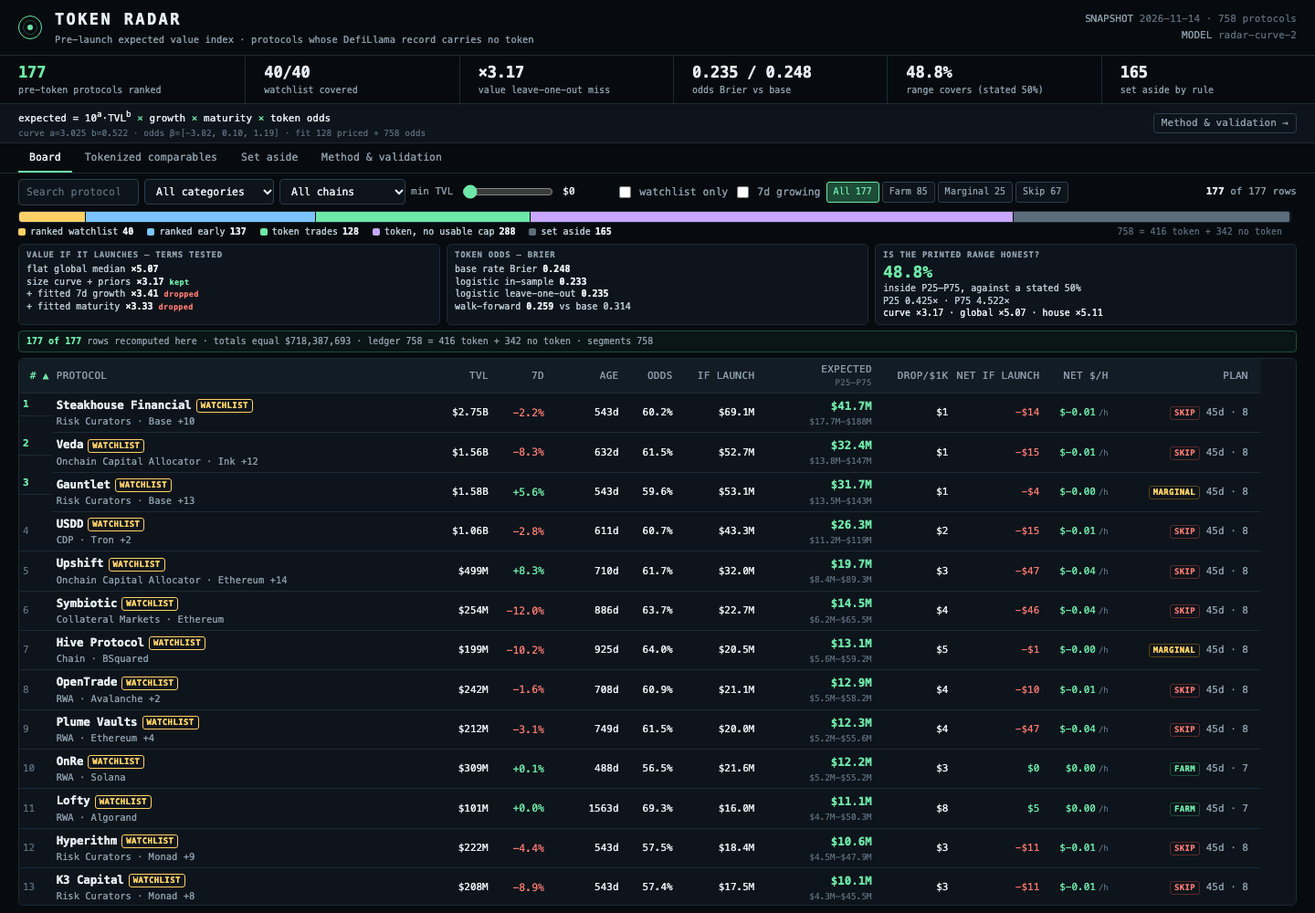
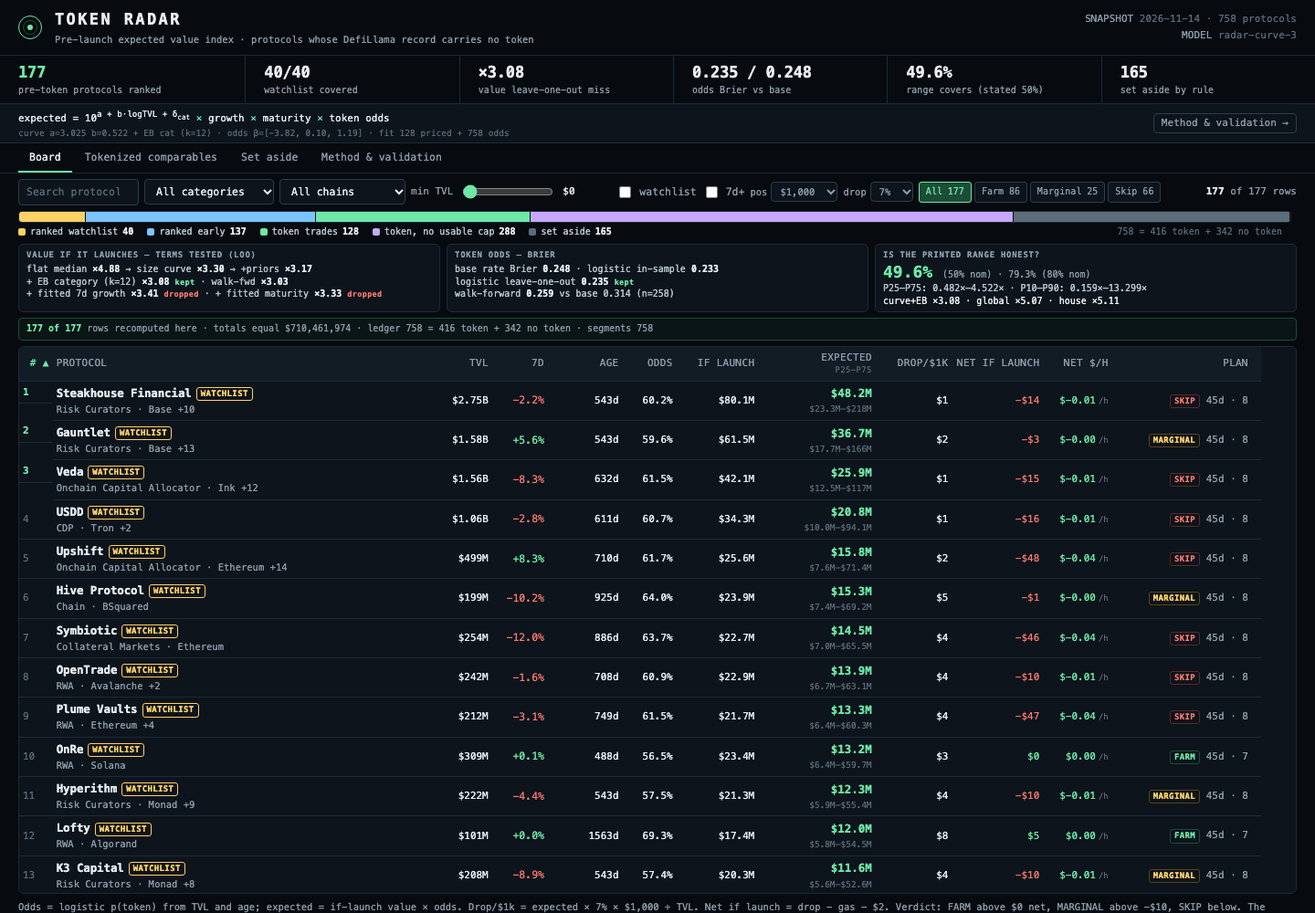
Add EB category shrinkage (k=12), P10-P90 bands, and interactive position/drop controls

diff --git a/dashboard/app.js b/dashboard/app.js
@@ -15,29 +15,31 @@ const one = (n) => `$${n.toFixed(2)}`;
 const cmp = (a, b) => (a < b ? -1 : a > b ? 1 : 0);
 const age = (r) => `${r.age_days}d${r.age_assumed ? '<span class="badge assume">assumed</span>' : ''}`;
 const clamp = (n, lo, hi) => Math.min(hi, Math.max(lo, n));
-const verdict = (r) => r.net_if_launch_usd > 0 ? ['FARM', 'farm'] : r.net_if_launch_usd > -10 ? ['MARGINAL', 'marg'] : ['SKIP', 'skip'];
+const verdictNet = (net) => net > 0 ? ['FARM', 'farm'] : net > -10 ? ['MARGINAL', 'marg'] : ['SKIP', 'skip'];
+const verdict = (r) => verdictNet(r.net_if_launch_usd);
 
 const view = $('#view');
 if (!R) { view.innerHTML = '<p class="empty">No radar loaded: run <b>node main.ts</b> to write data.js.</p>'; throw new Error('data.js missing'); }
 const v = R.validation;
 const baseBrier = R.odds.base_rate * (1 - R.odds.base_rate);
 
-/** Recompute one row from snapshot inputs, constants, curve and odds coefficients. */
-function rec(r) {
+/** Recompute one row from snapshot inputs, constants, curve, EB category adj and odds. */
+function rec(r, pos = MODEL.deposit_usd, share = MODEL.drop_share) {
   const g = Math.round((1 + (clamp(r.change_7d ?? 0, MODEL.growth_lo, MODEL.growth_hi) / 100) * MODEL.growth_weight) * 1e4) / 1e4;
   const a = r.age_assumed ? MODEL.age_assumed_days : r.age_days;
   const mat = Math.round((MODEL.maturity_base + (Math.min(a, MODEL.maturity_days) / MODEL.maturity_days) * MODEL.maturity_span) * 1e4) / 1e4;
-  const base = 10 ** R.curve.a * Math.pow(r.tvl_usd, R.curve.b);
+  const adj = (R.curve.cat_adj && R.curve.cat_adj[r.category ?? '(none)']) ?? 0;
+  const base = 10 ** (R.curve.a + R.curve.b * Math.log10(r.tvl_usd) + adj);
   const ifLaunch = Math.max(1, Math.round(base * g * mat));
   const z = R.odds.beta[0] + R.odds.beta[1] * Math.log10(r.tvl_usd) + R.odds.beta[2] * Math.log10(1 + Math.min(a, MODEL.odds_max_age));
   const odds = 1 / (1 + Math.exp(-z));
   const implied = Math.max(1, Math.round(ifLaunch * odds));
   const low = Math.max(1, Math.round(implied * R.curve.band.p25));
   const high = Math.max(1, Math.round(implied * R.curve.band.p75));
-  const drop = Math.round((implied * MODEL.drop_share * MODEL.deposit_usd) / r.tvl_usd);
+  const drop = Math.round((implied * share * pos) / r.tvl_usd);
   const net = drop - r.gas_total_usd - MODEL.fee_usd;
   const hours = r.hold_days * 24 + (r.family === 'rwa' ? 8 : r.family === 'staking' ? 4 : 1);
-  return { base, ifLaunch, odds: Math.round(odds * 1e4) / 1e4, implied, low, high, drop, net: Math.round(net * 100) / 100, netHour: Math.round((net / hours) * 1e4) / 1e4 };
+  return { base, adj, ifLaunch, odds: Math.round(odds * 1e4) / 1e4, implied, low, high, drop, net: Math.round(net * 100) / 100, netHour: Math.round((net / hours) * 1e4) / 1e4 };
 }
 const close = (a, b, tol) => Math.abs(a - b) <= tol;
 function integrity() {
@@ -62,9 +64,9 @@ $('#kpis').innerHTML = [
   [`${v.band.coverage}%`, 'range covers (stated 50%)'],
   [R.counts.set_aside, 'set aside by rule'],
 ].map(([b, s]) => `<div class="kpi"><b>${b}</b><span>${s}</span></div>`).join('');
-$('#methodbar').innerHTML = `<div class="mtext"><div class="f">expected = 10<sup>a</sup>·TVL<sup>b</sup> <i>×</i> growth <i>×</i> maturity <i>×</i> token odds</div><div class="f2">curve a=${v.curve.a.toFixed(3)} b=${v.curve.b.toFixed(3)} · odds β=[${R.odds.beta.map((z) => z.toFixed(2)).join(', ')}] · fit ${R.counts.tokenized} priced + ${R.counts.protocols} odds</div></div><button class="go" id="goMethod">Method &amp; validation →</button>`;
+$('#methodbar').innerHTML = `<div class="mtext"><div class="f">expected = 10<sup>a + b·logTVL + δ<sub>cat</sub></sup> <i>×</i> growth <i>×</i> maturity <i>×</i> token odds</div><div class="f2">curve a=${v.curve.a.toFixed(3)} b=${v.curve.b.toFixed(3)} + EB cat (k=${MODEL.cat_shrink_k}) · odds β=[${R.odds.beta.map((z) => z.toFixed(2)).join(', ')}] · fit ${R.counts.tokenized} priced + ${R.counts.protocols} odds</div></div><button class="go" id="goMethod">Method &amp; validation →</button>`;
 
-const state = { q: '', cat: '', chain: '', minTvl: 0, watch: false, grow: false, verdict: 'all', key: 'rank', dir: 1 };
+const state = { q: '', cat: '', chain: '', minTvl: 0, watch: false, grow: false, verdict: 'all', key: 'rank', dir: 1, pos: MODEL.deposit_usd, share: MODEL.drop_share };
 const cats = [...new Set(R.rows.map((r) => r.category ?? '(none)'))].sort(cmp);
 const chainCount = new Map();
 for (const r of R.rows) for (const c of r.chains) chainCount.set(c, (chainCount.get(c) ?? 0) + 1);
@@ -98,21 +100,18 @@ function evidence() {
   const kept = '<span class="keep">kept</span>';
   const drop = '<span class="drop">dropped</span>';
   return `<div class="evidence">
-    <div class="ecard"><h4>Value if it launches — terms tested</h4>
-      <div class="eline">flat global median <b>${x2(t.flat)}</b></div>
-      <div class="eline">size curve + priors <b>${x2(t.curve)}</b> ${kept}</div>
-      <div class="eline">+ fitted 7d growth <b>${x2(t.growth)}</b> ${drop}</div>
-      <div class="eline">+ fitted maturity <b>${x2(t.maturity)}</b> ${drop}</div></div>
+    <div class="ecard"><h4>Value if it launches — terms tested (LOO)</h4>
+      <div class="eline">flat median <b>${x2(t.flat)}</b> → size curve <b>${x2(t.size)}</b> → +priors <b>${x2(t.priors)}</b></div>
+      <div class="eline">+ EB category (k=${MODEL.cat_shrink_k}) <b>${x2(t.curve)}</b> ${kept} · walk-fwd <b>${x2(v.walk.median_miss)}</b></div>
+      <div class="eline">+ fitted 7d growth <b>${x2(t.growth)}</b> ${drop} · + fitted maturity <b>${x2(t.maturity)}</b> ${drop}</div></div>
     <div class="ecard"><h4>Token odds — Brier</h4>
-      <div class="eline">base rate Brier <b>${baseBrier.toFixed(3)}</b></div>
-      <div class="eline">logistic in-sample <b>${R.odds.brier_in.toFixed(3)}</b></div>
-      <div class="eline">logistic leave-one-out <b>${R.odds.brier_loo.toFixed(3)}</b></div>
-      <div class="eline">walk-forward <b>${R.odds.walk.brier.toFixed(3)}</b> vs base ${R.odds.walk.base_brier.toFixed(3)}</div></div>
+      <div class="eline">base rate Brier <b>${baseBrier.toFixed(3)}</b> · logistic in-sample <b>${R.odds.brier_in.toFixed(3)}</b></div>
+      <div class="eline">logistic leave-one-out <b>${R.odds.brier_loo.toFixed(3)}</b> ${kept}</div>
+      <div class="eline">walk-forward <b>${R.odds.walk.brier.toFixed(3)}</b> vs base ${R.odds.walk.base_brier.toFixed(3)} (n=${R.odds.walk.test_n})</div></div>
     <div class="ecard"><h4>Is the printed range honest?</h4>
-      <div class="bigstat">${v.band.coverage}%</div>
-      <div class="eline">inside P25–P75, against a stated 50%</div>
-      <div class="eline">P25 ${R.curve.band.p25.toFixed(3)}× · P75 ${R.curve.band.p75.toFixed(3)}×</div>
-      <div class="eline hi">curve ${x2(v.curve.median_miss)} · global ${x2(v.global.median_miss)} · house ${x2(v.house.median_miss)}</div></div>
+      <div class="bigstat">${v.band.coverage}% <span class="substat">(50% nom) · ${v.band.coverage80}% (80% nom)</span></div>
+      <div class="eline">P25–P75: ${R.curve.band.p25.toFixed(3)}×–${R.curve.band.p75.toFixed(3)}× · P10–P90: ${R.curve.band.p10.toFixed(3)}×–${R.curve.band.p90.toFixed(3)}×</div>
+      <div class="eline hi">curve+EB ${x2(v.curve.median_miss)} · global ${x2(v.global.median_miss)} · house ${x2(v.house.median_miss)}</div></div>
   </div>`;
 }
 function chartSvg(W = 620, H = 280) {
@@ -140,8 +139,10 @@ function renderBoard() {
     <select id="cat" aria-label="Category"><option value="">All categories</option>${cats.map((c) => `<option value="${esc(c)}"${c === state.cat ? ' selected' : ''}>${esc(c)}</option>`).join('')}</select>
     <select id="chain" aria-label="Chain"><option value="">All chains</option>${chains.map((c) => `<option value="${esc(c)}"${c === state.chain ? ' selected' : ''}>${esc(c)}</option>`).join('')}</select>
     <label class="slider">min TVL <input type="range" id="minTvl" min="0" max="${Math.ceil(maxTvl / 1e7) * 10}" step="5" value="${state.minTvl / 1e6}" aria-label="Minimum TVL in millions"><output id="minOut">${usd(state.minTvl)}</output></label>
-    <label class="check"><input type="checkbox" id="watch"${state.watch ? ' checked' : ''}> watchlist only</label>
-    <label class="check"><input type="checkbox" id="grow"${state.grow ? ' checked' : ''}> 7d growing</label>
+    <label class="check"><input type="checkbox" id="watch"${state.watch ? ' checked' : ''}> watchlist</label>
+    <label class="check"><input type="checkbox" id="grow"${state.grow ? ' checked' : ''}> 7d+</label>
+    <label class="miniinp">pos <select id="posSel" aria-label="Position size">${[500, 1000, 5000, 10000].map((v2) => `<option value="${v2}"${v2 === state.pos ? ' selected' : ''}>${full(v2)}</option>`).join('')}</select></label>
+    <label class="miniinp">drop <select id="shareSel" aria-label="Airdrop share">${[0.05, 0.07, 0.1].map((v2) => `<option value="${v2}"${v2 === state.share ? ' selected' : ''}>${Math.round(v2 * 100)}%</option>`).join('')}</select></label>
     <span class="vchips" id="vchips"></span>
     <span class="count" id="count"></span>
   </div>
@@ -157,6 +158,8 @@ function renderBoard() {
   $('#minTvl').addEventListener('input', (e) => { state.minTvl = Number(e.target.value) * 1e6; $('#minOut').textContent = usd(state.minTvl); run(); });
   $('#watch').addEventListener('change', (e) => { state.watch = e.target.checked; run(); });
   $('#grow').addEventListener('change', (e) => { state.grow = e.target.checked; run(); });
+  $('#posSel').addEventListener('change', (e) => { state.pos = Number(e.target.value); run(); });
+  $('#shareSel').addEventListener('change', (e) => { state.share = Number(e.target.value); run(); });
   view.querySelectorAll('th[data-k]').forEach((th) => th.addEventListener('click', () => { const k = th.dataset.k; state.dir = state.key === k ? -state.dir : (k === 'rank' || k === 'name' ? 1 : -1); state.key = k; run(); }));
   fill();
   const I = integrity();
@@ -165,11 +168,19 @@ function renderBoard() {
 
 function fill() {
   const pre = preVerdict();
-  const counts = { all: pre.length, farm: 0, marg: 0, skip: 0 };
-  for (const r of pre) counts[verdict(r)[1]]++;
+  const liveRow = (r) => (state.pos === MODEL.deposit_usd && state.share === MODEL.drop_share) ? r : (() => { const c = rec(r, state.pos, state.share); return { ...r, drop_per_1k_usd: c.drop, net_if_launch_usd: c.net, net_per_hour_usd: c.netHour }; })();
+  const preLive = pre.map(liveRow);
+  const counts = { all: preLive.length, farm: 0, marg: 0, skip: 0 };
+  for (const r of preLive) counts[verdict(r)[1]]++;
   $('#vchips').innerHTML = [['all', 'All'], ['farm', 'Farm'], ['marg', 'Marginal'], ['skip', 'Skip']].map(([k, l]) => `<button class="vchip${state.verdict === k ? ' on' : ''}" data-v="${k}">${l} ${counts[k]}</button>`).join('');
   view.querySelectorAll('[data-v]').forEach((b) => b.addEventListener('click', () => { state.verdict = b.dataset.v; fill(); }));
-  const rows = filtered();
+  const rows = preLive.filter((r) => state.verdict === 'all' || verdict(r)[1] === state.verdict).sort((a, b) => {
+    const va = a[state.key], vb = b[state.key];
+    if (va === vb) return a.rank - b.rank;
+    if (va === null) return 1;
+    if (vb === null) return -1;
+    return (typeof va === 'string' ? cmp(va, vb) : va - vb) * state.dir;
+  });
   const bits = [];
   if (state.cat) bits.push(state.cat);
   if (state.chain) bits.push(state.chain);
@@ -177,9 +188,15 @@ function fill() {
   if (state.watch) bits.push('watchlist only');
   if (state.grow) bits.push('7d growing');
   if (state.verdict !== 'all') bits.push(`${state.verdict} verdict`);
+  if (state.pos !== MODEL.deposit_usd || state.share !== MODEL.drop_share) bits.push(`${full(state.pos)} @ ${Math.round(state.share * 100)}%`);
   if (state.q) bits.push(`“${state.q}”`);
   $('#count').innerHTML = `<b>${rows.length}</b> of ${R.rows.length} rows${bits.length ? ` &middot; <span class="flt">${esc(bits.join(' · '))}</span>` : ''}`;
-  view.querySelectorAll('th[data-k]').forEach((th) => { const on = th.dataset.k === state.key; th.classList.toggle('sorted', on); th.textContent = COLS.find((c) => c[0] === th.dataset.k)[1] + (on ? (state.dir > 0 ? ' ▲' : ' ▼') : ''); });
+  view.querySelectorAll('th[data-k]').forEach((th) => {
+    const on = th.dataset.k === state.key;
+    th.classList.toggle('sorted', on);
+    const baseLabel = th.dataset.k === 'drop_per_1k_usd' ? `Drop/${usd(state.pos)}` : COLS.find((c) => c[0] === th.dataset.k)[1];
+    th.textContent = baseLabel + (on ? (state.dir > 0 ? ' ▲' : ' ▼') : '');
+  });
   $('#rows').innerHTML = rows.length ? rows.map((r) => {
     const badge = `${r.watchlist ? '<span class="badge wl">WATCHLIST</span>' : '<span class="badge early">BELOW FLOOR</span>'}${r.missing.length ? `<span class="badge assume">${r.missing.length} missing</span>` : ''}`;
     const [vl, vc] = verdict(r);
@@ -223,16 +240,16 @@ function openDetail(slug) {
     <button class="dclose" id="dclose">Close ✕</button></div>
   <div class="dhero"><div class="dvalue"><div class="big">${full(r.implied_value_usd)} <span class="heroSub">expected</span></div>
     <div class="eq">${full(r.if_launch_usd)} if it launches × ${(r.odds * 100).toFixed(1)}% odds = ${full(r.implied_value_usd)} expected</div>
-    <div class="note">if-launch = 10^${v.curve.a.toFixed(3)} · TVL^${v.curve.b.toFixed(3)} × ${r.growth_mult.toFixed(3)} growth × ${r.maturity.toFixed(3)} maturity. Interval = expected × held-out ${r.ratio_lo.toFixed(3)}× / ${r.ratio_hi.toFixed(3)}×.<br>Recomputed here: <b>${full(c.implied)}</b>; the row says <b>${full(r.implied_value_usd)}</b> — ${c.implied === r.implied_value_usd ? 'match' : 'MISMATCH'}.</div></div>
-    <div class="dband"><div class="lab">P25–P75 expected-value interval</div>
+    <div class="note">if-launch = 10^(${v.curve.a.toFixed(3)} + ${v.curve.b.toFixed(3)}·logTVL ${(c.adj >= 0 ? '+' : '−')} ${Math.abs(c.adj).toFixed(3)} EB cat) × ${r.growth_mult.toFixed(3)} growth × ${r.maturity.toFixed(3)} maturity. Interval = expected × held-out ${r.ratio_lo.toFixed(3)}× / ${r.ratio_hi.toFixed(3)}×.<br>Recomputed here: <b>${full(c.implied)}</b>; the row says <b>${full(r.implied_value_usd)}</b> — ${c.implied === r.implied_value_usd ? 'match' : 'MISMATCH'}.</div></div>
+    <div class="dband"><div class="lab">P25–P75 (${v.band.coverage}% cov) &amp; P10–P90 (${v.band.coverage80}% cov) interval</div>
       <div class="nums"><span>P25 <b>${usd(r.low_usd)}</b></span><span>expected <b>${usd(r.implied_value_usd)}</b></span><span>P75 <b>${usd(r.high_usd)}</b></span></div>${bandMarkup(r)}
-      <div class="nums" style="margin-top:6px"><span class="mut">${r.ratio_lo.toFixed(3)}×</span><span class="mut">1.000×</span><span class="mut">${r.ratio_hi.toFixed(3)}×</span></div></div></div>
+      <div class="nums" style="margin-top:6px"><span class="mut">P10 ${usd(Math.max(1, Math.round(r.implied_value_usd * R.curve.band.p10)))}</span><span class="mut">${r.ratio_lo.toFixed(3)}×–${r.ratio_hi.toFixed(3)}×</span><span class="mut">P90 ${usd(Math.max(1, Math.round(r.implied_value_usd * R.curve.band.p90)))}</span></div></div></div>
   <div class="dcols"><div>
     <div class="card"><h3>Model inputs from the snapshot</h3><div class="rows">
       <div class="row"><div class="l"><span class="k">TVL</span><span class="e">tvl_usd</span></div><span class="v">${full(r.tvl_usd)}</span></div>
       <div class="row"><div class="l"><span class="k">7d TVL change</span><span class="e">${r.change_7d === null ? 'not reported' : `${r.change_7d.toFixed(2)}%, counted ${r.growth_counted}%`}</span></div><span class="v">${pct(r.change_7d)} → ×${r.growth_mult.toFixed(3)}</span></div>
       <div class="row"><div class="l"><span class="k">No-token age</span><span class="e">${esc(r.age_basis)}</span></div><span class="v">${r.age_days}d</span></div>
-      <div class="row"><div class="l"><span class="k">Curve base</span><span class="e">10^a × TVL^b</span></div><span class="v">${full(r.base_usd)}</span></div>
+      <div class="row"><div class="l"><span class="k">Curve + EB cat</span><span class="e">10^(a + b·logTVL + ${(c.adj >= 0 ? '+' : '') + c.adj.toFixed(4)})</span></div><span class="v">${full(r.base_usd)}</span></div>
       <div class="row"><div class="l"><span class="k">If it launches</span><span class="e">base × growth × maturity</span></div><span class="v">${full(r.if_launch_usd)}</span></div>
       <div class="row"><div class="l"><span class="k">Expected value</span><span class="e">if launches × token odds</span></div><span class="v acc">${full(r.implied_value_usd)}</span></div>
       <div class="row"><div class="l"><span class="k">Drop / $1k</span><span class="e">expected × ${Math.round(MODEL.drop_share * 100)}% × $1,000 ÷ TVL</span></div><span class="v">${full(r.drop_per_1k_usd)}</span></div>
@@ -282,7 +299,14 @@ function renderAside() {
 function renderMethod() {
   const c = R.counts, t = R.terms, o = R.odds;
   const status = (n, cut) => n <= cut ? '<span class="keep">kept</span>' : '<span class="drop">dropped</span>';
-  const termRows = [['Flat global median multiple', t.flat, status(t.flat, 4)], ['+ size curve and stated priors', t.curve, status(t.curve, 4)], ['+ fitted 7-day growth', t.growth, status(t.growth, t.curve)], ['+ fitted maturity', t.maturity, status(t.maturity, t.curve)]].map(([n, m, s]) => `<tr><td>${n}</td><td class="num">${x2(m)}</td><td>${s}</td></tr>`).join('');
+  const termRows = [
+    ['Flat global median multiple', t.flat, '<span class="drop">baseline</span>'],
+    ['Log-log size curve (TVL)', t.size, '<span class="keep">kept</span>'],
+    ['+ stated growth & maturity priors', t.priors, '<span class="keep">kept</span>'],
+    [`+ EB category shrinkage (k=${MODEL.cat_shrink_k})`, t.curve, '<span class="keep">kept</span>'],
+    ['+ fitted 7-day growth', t.growth, status(t.growth, t.curve)],
+    ['+ fitted maturity', t.maturity, status(t.maturity, t.curve)],
+  ].map(([n, m, s]) => `<tr><td>${n}</td><td class="num">${x2(m)}</td><td>${s}</td></tr>`).join('');
   const catRows = R.categories.filter((k) => k.n >= 5).sort((a, b) => b.n - a.n || cmp(a.name, b.name)).map((k) => `<tr><td>${esc(k.name)}</td><td class="num">${k.n}</td><td class="num">${x(k.median)}</td><td class="num">${k.rows}</td></tr>`).join('');
   const outRows = v.outliers.map((q) => `<tr><td>${esc(q.name)}</td><td class="sub">${esc(q.category ?? 'none')}</td><td class="num">${q.ratio}</td><td class="num">${usd(q.tvl_usd)}</td></tr>`).join('');
   const modelRow = (name, s) => `<tr><td>${name}</td><td class="num">${x2(s.median_miss)}</td><td class="num">${s.within_2x}%</td><td class="num">${s.within_3x}%</td><td class="num">${s.spearman}</td></tr>`;

diff --git a/lib/radar.ts b/lib/radar.ts
@@ -81,8 +81,8 @@ export function logFit(ps) {
   return { a: my - b * mx, b, n };
 }
 
-/** Fit the comps curve; the seven ratios outside [0.005, 50] are flagged and
- * excluded from the held-out band and scoring sample (121 of 128). */
+/** Fit the comps curve + Empirical-Bayes category residual shrinkage (k=12).
+ * Seven ratios outside [0.005, 50] are flagged and excluded from scoring (121 of 128). */
 export function fitCurve(protocols, asOf) {
   const live = protocols.filter(isTokenized);
   const inWindow = (p) => {
@@ -94,19 +94,47 @@ export function fitCurve(protocols, asOf) {
     slug: p.slug, name: p.name, category: p.category, tvl_usd: p.tvl_usd,
     mcap_usd: p.mcap_usd, ratio: round(p.mcap_usd / p.tvl_usd, 6),
   }));
+  const fitCatAdj = (train, f) => {
+    const byCat = new Map();
+    for (const q of train) {
+      const c = q.category ?? '(none)';
+      const res = Math.log10(q.mcap_usd) - (f.a + f.b * Math.log10(q.tvl_usd));
+      if (!byCat.has(c)) byCat.set(c, []);
+      byCat.get(c).push(res);
+    }
+    const adj = {};
+    for (const [c, rs] of byCat) {
+      const mean = rs.reduce((s, v) => s + v, 0) / (rs.length + MODEL.cat_shrink_k);
+      adj[c] = round(mean, 5);
+    }
+    return adj;
+  };
   const fit = logFit(live);
   const filtered = logFit(clean);
-  const predict = (tvl) => 10 ** fit.a * tvl ** fit.b;
+  const catAdj = fitCatAdj(live, fit);
+  const predict = (tvl, category) => {
+    const adj = catAdj[category ?? '(none)'] ?? 0;
+    return 10 ** (fit.a + fit.b * Math.log10(tvl) + adj);
+  };
   const ratios = [];
   const curvePreds = [];
   for (const p of clean) {
-    const f = logFit(live.filter((x) => x !== p));
-    const pred = 10 ** f.a * p.tvl_usd ** f.b * growthFactor(p) * maturityFactor(p, asOf);
+    const tr = live.filter((x) => x !== p);
+    const f = logFit(tr);
+    const cAdj = fitCatAdj(tr, f);
+    const adj = cAdj[p.category ?? '(none)'] ?? 0;
+    const pred = 10 ** (f.a + f.b * Math.log10(p.tvl_usd) + adj) * growthFactor(p) * maturityFactor(p, asOf);
     ratios.push(p.mcap_usd / pred);
     curvePreds.push(pred);
   }
-  const band = { n: ratios.length, p25: round(quantile(ratios, 0.25)), p75: round(quantile(ratios, 0.75)) };
-  return { live, clean, outliers, fit, filtered, predict, ratios, curvePreds, band };
+  const band = {
+    n: ratios.length,
+    p10: round(quantile(ratios, 0.1)),
+    p25: round(quantile(ratios, 0.25)),
+    p75: round(quantile(ratios, 0.75)),
+    p90: round(quantile(ratios, 0.9)),
+  };
+  return { live, clean, outliers, fit, filtered, catAdj, fitCatAdj, predict, ratios, curvePreds, band };
 }
 
 /** Days between the snapshot day and the day DefiLlama began tracking the protocol. */
@@ -148,13 +176,14 @@ export function score(p, asOf, curve, odds) {
   const assumed = actualAge === null;
   const age = assumed ? MODEL.age_assumed_days : actualAge;
   const maturity = maturityFactor(p, asOf);
-  const base = curve.predict(p.tvl_usd);
+  const base = curve.predict(p.tvl_usd, p.category);
+  const catAdj = curve.catAdj[p.category ?? '(none)'] ?? 0;
   const ifLaunch = Math.max(MODEL.value_floor_usd, Math.round(base * growth * maturity));
   const implied = Math.max(MODEL.value_floor_usd, Math.round(ifLaunch * odds));
   const low = Math.max(MODEL.value_floor_usd, Math.round(implied * curve.band.p25));
   const high = Math.max(MODEL.value_floor_usd, Math.round(implied * curve.band.p75));
   const missing = [];
-  if (p.category === null) missing.push('category: not recorded; the curve does not use it');
+  if (p.category === null) missing.push('category: not recorded; EB category adjustment held at 0');
   if (p.change_7d === null) missing.push('change_7d: not reported, the growth factor is held at 1.000');
   if (p.listed_at === null) missing.push(`listed_at: not reported, age is assumed to be ${MODEL.age_assumed_days} days (maturity ${maturity.toFixed(3)})`);
   return {
@@ -164,6 +193,7 @@ export function score(p, asOf, curve, odds) {
     age_days: age,
     age_assumed: assumed,
     age_basis: assumed ? `assumed ${MODEL.age_assumed_days} days: listed_at is not reported` : `${age} days since DefiLlama began tracking it`,
+    cat_adj: catAdj,
     base_usd: Math.round(base),
     odds: round(odds, 4),
     if_launch_usd: ifLaunch,
@@ -446,16 +476,23 @@ function olsMulti(X, y) {
   return solve3(A, rhs);
 }
 
-/** Cumulative held-out term tests: flat, curve+priors, fitted growth, fitted maturity. */
+/** Cumulative held-out term tests: flat, size curve, +priors, +EB category, +fitted growth/maturity. */
 export function termsTest(protocols, curve, asOf) {
   const live = curve.live;
   const clean = curve.clean;
   const flat = [];
-  for (const p of live) {
-    const m = quantile(live.filter((x) => x !== p).map((x) => x.mcap_usd / x.tvl_usd), 0.5);
+  const curveOnly = [];
+  const curvePriors = [];
+  for (const p of clean) {
+    const tr = live.filter((x) => x !== p);
+    const m = quantile(tr.map((x) => x.mcap_usd / x.tvl_usd), 0.5);
     flat.push(Math.abs(Math.log10((p.tvl_usd * m) / p.mcap_usd)));
+    const f = logFit(tr);
+    const base = 10 ** f.a * p.tvl_usd ** f.b;
+    curveOnly.push(Math.abs(Math.log10(base / p.mcap_usd)));
+    curvePriors.push(Math.abs(Math.log10((base * growthFactor(p) * maturityFactor(p, asOf)) / p.mcap_usd)));
   }
-  const curveErr = curve.ratios.map((r) => Math.abs(Math.log10(r)));
+  const ebErr = curve.ratios.map((r) => Math.abs(Math.log10(r)));
   const data = (term) => live.map((p) => [1, Math.log10(p.tvl_usd), term(p)]).map((x, i) => ({ x, y: Math.log10(live[i].mcap_usd), p: live[i] }));
   const fitTerm = (term) => {
     const rows = data(term);
@@ -472,7 +509,9 @@ export function termsTest(protocols, curve, asOf) {
   const age = (p) => maturityFactor(p, asOf);
   return {
     flat: round(10 ** quantile(flat, 0.5), 3),
-    curve: round(10 ** quantile(curveErr, 0.5), 3),
+    size: round(10 ** quantile(curveOnly, 0.5), 3),
+    priors: round(10 ** quantile(curvePriors, 0.5), 3),
+    curve: round(10 ** quantile(ebErr, 0.5), 3),
     growth: fitTerm(g),
     maturity: fitTerm(age),
     n: clean.length,
@@ -499,13 +538,15 @@ export function validate(protocols, curve, asOf) {
   const actuals = clean.map((p) => p.mcap_usd);
   const band = curve.band;
   const bandHits = curve.ratios.filter((r) => r >= band.p25 && r <= band.p75).length;
+  const band80Hits = curve.ratios.filter((r) => r >= band.p10 && r <= band.p90).length;
 
   const dated = clean.filter((p) => p.listed_at).slice().sort((a, b) => (a.listed_at < b.listed_at ? -1 : a.listed_at > b.listed_at ? 1 : a.slug < b.slug ? -1 : 1));
   const cut = Math.floor(dated.length * 0.6);
   const train = dated.slice(0, cut);
   const test = dated.slice(cut);
   const wf = logFit(train);
-  const wfPreds = test.map((p) => 10 ** wf.a * p.tvl_usd ** wf.b * growthFactor(p) * maturityFactor(p, asOf));
+  const wfCat = curve.fitCatAdj(train, wf);
+  const wfPreds = test.map((p) => 10 ** (wf.a + wf.b * Math.log10(p.tvl_usd) + (wfCat[p.category ?? '(none)'] ?? 0)) * growthFactor(p) * maturityFactor(p, asOf));
   const wfStats = statBlock(wfPreds, test.map((p) => p.mcap_usd));
 
   return {
@@ -515,7 +556,7 @@ export function validate(protocols, curve, asOf) {
     curve: { a: curve.fit.a, b: curve.fit.b, filtered_a: curve.filtered.a, filtered_b: curve.filtered.b, ...statBlock(curve.curvePreds, actuals) },
     global: { median: round(quantile(live.map((p) => p.mcap_usd / p.tvl_usd), 0.5)), ...statBlock(globalPreds, live.map((p) => p.mcap_usd)) },
     house: { ...statBlock(housePreds, live.map((p) => p.mcap_usd)) },
-    band: { ...band, coverage: round((bandHits / curve.ratios.length) * 100, 1) },
+    band: { ...band, coverage: round((bandHits / curve.ratios.length) * 100, 1), coverage80: round((band80Hits / curve.ratios.length) * 100, 1) },
     walk: { train_n: train.length, test_n: test.length, a: wf.a, b: wf.b, ...wfStats },
     outliers: curve.outliers,
   };
@@ -625,7 +666,7 @@ export function buildRadar(snap) {
       set_aside: aside.length,
       no_tvl: noTvl,
     },
-    curve: { a: curve.fit.a, b: curve.fit.b, fit_n: curve.live.length, clean_n: curve.clean.length, band: curve.band },
+    curve: { a: curve.fit.a, b: curve.fit.b, fit_n: curve.live.length, clean_n: curve.clean.length, band: curve.band, cat_adj: curve.catAdj },
     odds: oddsModel,
     terms: termsTest(snap.protocols, curve, snap.as_of),
     ledger: {

diff --git a/dashboard/app.css b/dashboard/app.css
@@ -178,6 +178,9 @@ td.rank.top{color:var(--acc);font-weight:700;}
 .keep{color:var(--acc);font-size:8.5px;font-weight:700;letter-spacing:.04em;}
 .drop{color:var(--red);font-size:8.5px;font-weight:700;letter-spacing:.04em;}
 .bigstat{font-size:18px;font-weight:700;color:var(--acc);line-height:1.1;margin:0 0 1px;}
+.substat{font-size:10px;font-weight:500;color:var(--muted);}
+.miniinp{display:inline-flex;align-items:center;gap:4px;color:var(--muted);font-size:10.5px;}
+.miniinp select{padding:3px 5px;font-size:10.5px;}
 .integrity{border:1px solid var(--acc-dim);background:rgba(29,76,56,.16);border-radius:4px;padding:4px 8px;font-size:10px;color:var(--muted);margin-bottom:6px;}
 .integrity b{color:var(--acc);}
 .vchips{display:inline-flex;gap:3px;}

diff --git a/dashboard/model.js b/dashboard/model.js
@@ -1,6 +1,6 @@
 // Constants shared by main.ts's fitted model and the page's own recomputation.
 export const MODEL = {
-  version: 'radar-curve-2',
+  version: 'radar-curve-3',
   growth_weight: 0.35,
   growth_lo: -60,
   growth_hi: 120,
@@ -9,6 +9,8 @@ export const MODEL = {
   maturity_days: 1095,
   age_assumed_days: 365,
   odds_max_age: 2000,
+  cat_shrink_k: 12,
+  min_peers: 5,
   ratio_lo: 0.005,
   ratio_hi: 50,
   drop_share: 0.07,
